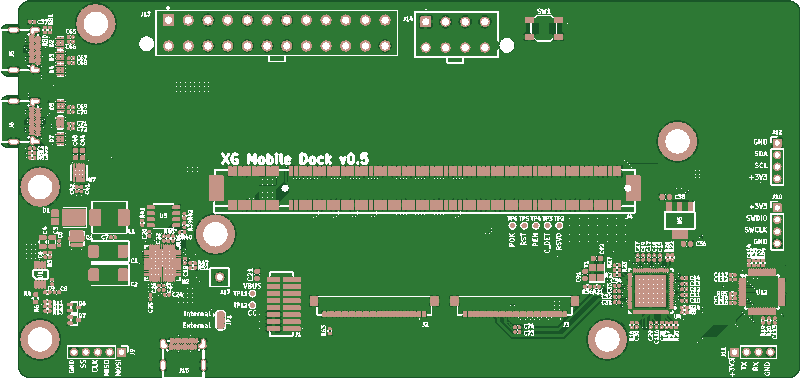
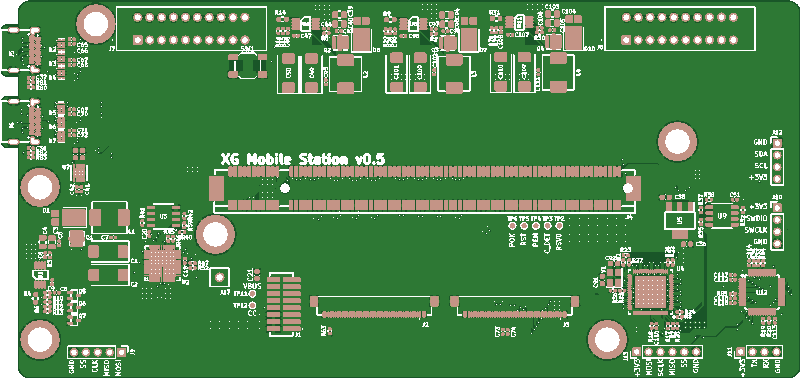
docs: updated diary and build guide for v5

diff --git a/Docs/Build_Guide.md b/Docs/Build_Guide.md
@@ -1,48 +1,48 @@
 The dock was designed from the beginning to be assembled at JLCPCB because of their low cost PCB assembly option. If you have not ordered from JLCPCB before, this guide will help you get started. There are two configurations you can build and some minor differences between them. The regular configuration is designed to be a complete replacement for the XG Station Pro main board and requires its proprietary power connector. It also supports USB charging and a 2-port USB hub. The lite version requires a standard ATX power supply and passes through the USB port to an external connection.
 
-Some options differ for low volume (<= 10) and high volume (>= 100) orders. This is because for low volume, we will optimize for cost and for high volume, we care about reliability (the per-unit cost of some options are reduced at high quantity). If you are ordering some number of units in between, use your best judgment. Note that Economic PCBA is cost effective for low volume because the per-component feeder loading fee is waived for basic components while at high volumes, the per-unit cost of this fee is negligible.
+## Board Guide
 
 1. Download `GERBER-XG_Mobile_Dock[_Lite].zip`, `CPL-XG_Mobile_Dock[_Lite].csv`, and `BOM-XG_Mobile_Dock[_Lite].csv` from the [latest release on GitHub](https://github.com/osy/XG_Mobile_Station/releases). Choose the regular or lite variant depending on the build you want. Do not mix and match files.
 2. Visit https://cart.jlcpcb.com/quote and upload `GERBER-XG_Mobile_Dock[_Lite].zip`
 3. Fill the PCB options as follows
 
-    | Option                     | Low Volume              | High Volume             | Notes                                                        |
-    |----------------------------|-------------------------|-------------------------|--------------------------------------------------------------|
-    | Base Material              | FR-4                    | FR-4                    |                                                              |
-    | Layers                     | 4                       | 4                       |                                                              |
-    | Dimensions                 |                         |                         | Should be auto filled                                        |
-    | PCB Qty                    | <= 10                   | >= 100                  |                                                              |
-    | Product Type               | Industrial/Consumer     | Industrial/Consumer     |                                                              |
-    | Different Design           | 1                       | 1                       |                                                              |
-    | Delivery Format            | Single PCB              | Single PCB              |                                                              |
-    | PCB Thickness              | 1.6                     | 1.6                     |                                                              |
-    | PCB Color                  | Any                     | Any                     | Green is cheapest                                            |
-    | Silkscreen                 | White                   | White                   |                                                              |
-    | Material Type              | **FR-4 TG155**          | **FR-4 TG155**          |                                                              |
-    | Surface Finish             | HASL (with lead)        | **ENIG**                | Any would work, lead HASL is cheapest, ENIG is most reliable |
-    | Outer Copper Weight        | 1 oz                    | 1 oz                    |                                                              |
-    | Inner Copper Weight        | 0.5 oz                  | 0.5 oz                  |                                                              |
-    | Specify Layer Sequence     | No                      | No                      |                                                              |
-    | Impedance Control          | **Yes**                 | **Yes**                 |                                                              |
-    | Layer Stackup              | **JLC04161H-7628**      | **JLC04161H-7628**      |                                                              |
-    | Via Covering               | Plugged                 | Plugged                 |                                                              |
-    | Min via hole size/diameter | 0.3mm/(0.4/0.45mm)      | 0.3mm/(0.4/0.45mm)      |                                                              |
-    | Board Outline Tolerance    | ±0.2mm(Regular)         | ±0.2mm(Regular)         |                                                              |
-    | Confirm Production file    | No                      | No                      |                                                              |
-    | Remove Order Number        | No                      | No                      |                                                              |
-    | Flying Probe Test          | Fully Test              | Fully Test              |                                                              |
-    | Gold Fingers               | No                      | No                      |                                                              |
-    | 30° finger chamfered       | No                      | No                      |                                                              |
-    | Castellated Holes          | No                      | No                      |                                                              |
-    | Press-Fit Hole             | No                      | No                      |                                                              |
-    | Edge Plating               | No                      | No                      |                                                              |
+    | Option                     | Value                   | Notes                                                           |
+    |----------------------------|-------------------------|-----------------------------------------------------------------|
+    | Base Material              | FR-4                    |                                                                 |
+    | Layers                     | 4                       |                                                                 |
+    | Dimensions                 |                         | Should be auto filled                                           |
+    | PCB Qty                    | Any                     |                                                                 |
+    | Product Type               | Industrial/Consumer     |                                                                 |
+    | Different Design           | 1                       |                                                                 |
+    | Delivery Format            | Single PCB              |                                                                 |
+    | PCB Thickness              | 1.6                     |                                                                 |
+    | PCB Color                  | Any                     | Green is cheapest                                               |
+    | Silkscreen                 | White                   |                                                                 |
+    | Material Type              | **FR-4 TG155**          |                                                                 |
+    | Surface Finish             | **ENIG**                | HASL (with lead) can be used in low volume runs for cost saving |
+    | Outer Copper Weight        | 1 oz                    |                                                                 |
+    | Inner Copper Weight        | 0.5 oz                  |                                                                 |
+    | Specify Layer Sequence     | No                      |                                                                 |
+    | Impedance Control          | **Yes**                 |                                                                 |
+    | Layer Stackup              | **JLC04161H-7628**      |                                                                 |
+    | Via Covering               | Plugged                 |                                                                 |
+    | Min via hole size/diameter | 0.3mm/(0.4/0.45mm)      |                                                                 |
+    | Board Outline Tolerance    | ±0.2mm(Regular)         |                                                                 |
+    | Confirm Production file    | No                      |                                                                 |
+    | Remove Order Number        | No                      |                                                                 |
+    | Flying Probe Test          | Fully Test              |                                                                 |
+    | Gold Fingers               | No                      |                                                                 |
+    | 30° finger chamfered       | No                      |                                                                 |
+    | Castellated Holes          | No                      |                                                                 |
+    | Press-Fit Hole             | No                      |                                                                 |
+    | Edge Plating               | No                      |                                                                 |
 
 4. Check PCB Assembly and fill the following options
 
     | Option                  | Low Volume      | High Volume     | Notes                                  |
     |-------------------------|-----------------|-----------------|----------------------------------------|
     | PCBA Type               | Economic        | **Standard**    | Economic saves on per-component cost   |
-    | Assembly Side           | Top Side        | Both Sides      | Lite only needs top side               |
+    | Assembly Side           | Both Sides      | Both Sides      | Lite only needs top side               |
     | PCBA Qty                | >= 2            | >= 100          |                                        |
     | Edge Rails/Fiducials    | Added by JLCPCB | Added by JLCPCB |                                        |
     | Confirm Parts Placement | No              | No              |                                        |
@@ -51,12 +51,20 @@ Some options differ for low volume (<= 10) and high volume (>= 100) orders. This
 6. Accept the board preview and press Next
 7. Click "Add BOM File" and select your `BOM-XG_Mobile_Dock[_Lite].csv`
 8. Click "Add CPL File" and select your `CPL-XG_Mobile_Dock[_Lite].csv`
-9. Press "Process BOM & CPL" to continue
+9. Press "Process BOM & CPL" to continue (ignore any error about missing data)
 10. Select the parts to pick by following the [Parts Guide](#parts-guide) section below.
 11. Press Next. If you chose to skip some parts you will get a confirmation pop-up where you can press "Do Not Place".
 12. In the Component Placements screen, you can confirm the parts orientation. If there are any mis-rotated parts, click them and rotate it to the correct orientation. (e.g. the pin headers.) Press Next to continue.
 13. Confirm the order details and for "Product Description" select "Reserch\Education\DIY\Entertainment -> DIY - HS Code 902300"
-14. Press "Save to Cart" and proceed to checkout.
+14. Press "Save to Cart".
+
+### Power Cable
+If you are building the standard variant, you also need to build a custom power cable. This will be a second board in your cart. You do not need this if you are building the lite variant and can proceed to checkout.
+
+1. If you are in the Cart page, press "+ Add new item", otherwise visit https://cart.jlcpcb.com/quote again
+2. Upload `GERBER-Riser_M.zip`
+3. Optionally change the quantity (you need two for each board) and keep all other options default
+4. Press "Save to Cart" and proceed to checkout.
 
 ## Parts Guide
 
@@ -83,9 +91,11 @@ If you are ordering a low quantity (2-5 units) of PCBA boards and don't mind doi
 
 ## Additional Parts
 * [XG Mobile connector cable](https://www.a-accessories.com/asus-connection-cable-62505-79153.htm)
-* (Standard build only) A DC7450 connector power supply if you do not have an XG Station Pro PSU and built the board with the barrel jack connector ([e.g. Dell 330W](https://www.dell.com/en-us/shop/dell-330w-74mm-ac-adapter/apd/450-bbqg/pc-accessories))
 * (Standard build only) SPI flasher is needed to program the firmware for the TI PD charger. You can also use a RaspberryPi with [Flashrom](https://wiki.flashrom.org/RaspberryPi) for this purpose.
 * ST-LINK v2 is needed to program the STM32 MCU. You can buy a cheap clone from AliExpress for under $10 but note that the pinout listing printed on the dongle may be incorrect.
+* (Standard build only) 22AWG stranded PVC insulated wire
+* (Standard build only) [10mm diameter cable sleeve](https://www.amazon.com/dp/B0CPJ7PMFZ)
+* (Standard build only) Electrical tape (100°C rating)
 
 ## Building Firmware
 Check the [readme](../README.md) for directions on flashing.
@@ -102,3 +112,53 @@ Alternatively, if you want to build and develop the firmware, the easiest way is
 4. Click "Change File" and save it as "XG_Mobile_Dock_Charger.bin".
 5. Press Ok and Ok to save the firmware image.
 6. Some flashers like Flashrom requires the image to be the same size as the flash device. You can run `dd if=/dev/zero of=XG_Mobile_Dock_Charger.bin bs=1 seek=1048575 count=1 conv=notrunc` to ensure this.
+
+## Building Power Cable
+For the standard build, we need to build a custom cable assembly to pass power from the replacement board to the original board which we need to use to power the GPU.
+
+Warning: this cable will be handling 16.9A at 19.5V so please follow these instructions carefully and make sure to test your cable for short circuits and bad solder joints before plugging it in.
+
+1. Cut out 20 pieces wire, each one 25cm long. We chose 22AWG stranded wire because of the flexibility and their ability to handle 2.1A of load.
+2. For each wire, using a wire stripper on only one end, remove no more than 3mm of insulation
+3. Cut the cable sleeve into a 22cm long piece
+4. Bundle up all 20 wires and feed it through the cable sleeve. Feed the unstripped end to avoid tangling the conductor with the sleeve. If you are using different coloured wires, make sure to group the same colours together before feeding it to make organizing it easier later.
+5. After feeding all the wires through, strip the other end of each wire (no more than 3mm)
+
+Now you need to solder both ends of the connector using the custom PCB we ordered. Notice that one side is labeled "Front". We need to connect the same pin to each side of the wire. It may be difficult to determine both ends of a single wire, so we recommend using a multimeter's connectivity test to find the opposite end. We recommend starting on one side and alternating between the first pin and last pin, then second pin and second-to-last pin, and so on working towards the middle. This way, the tension of the cable is more evenly distributed.
+
+Finally, secure one end with electrical tape to prevent the sleeve from fraying. Then, on the other end, twist the connector 180° such that one end faces the front and the other end faces the back. Secure that end with electrical tape as well.
+
+[![Completed cable](images/power_riser_cable_v2.jpg)](images/power_riser_cable_v2.jpg)
+
+## Building XG Mobile Station
+The standard build is designed to fit inside the XG Station Pro enclosure. We will be replacing the logic board with our custom board, mounting the original logic board to the top of the case with electrical tape, and finally connecting the two boards with our custom power cable. This will allow us to use the original board to provide 12V power to the GPU. Note that we will be removing the fans to create more space as well as leave a larger power budget for the GPU.
+
+To start, completely disassemble the XG Station Pro until you have just the metal frame.
+
+[![Step 1](images/xg_mobile_station_build_1.jpg)](images/xg_mobile_station_build_1.jpg)
+
+Take the original logic board and insulate the edge with electrical tape. Because we will be mounting this board onto the top of the frame, we need to protect against short circuits. Note two areas highlighted in red which has high current. We recommend using two layers of electrical tape here just for extra protection.
+
+[![Step 2](images/xg_mobile_station_build_2.jpg)](images/xg_mobile_station_build_2.jpg)
+
+Secure the custom PCB and screw it in. You may want to also put the extra screws into the empty holes to not lose them. Plug in the power connector board and screw that in as well. Remove the EMI shielding from the top of the USB-C connectors of the original board and place it on the USB-C connectors of the custom board.
+
+[![Step 3](images/xg_mobile_station_build_3.jpg)](images/xg_mobile_station_build_3.jpg)
+
+Connect the PCIe power cable back on the original board and connect the 2-pin power LED to the end of the board. Flip the board upside down and use electrical tape to secure it to the top of the chassis. Make sure that the holes for the top panel is not blocked by the board or any tape.
+
+[![Step 4](images/xg_mobile_station_build_4.jpg)](images/xg_mobile_station_build_4.jpg)
+
+Connect the XGM cable to the board (all three connectors). You will need to fold the cable in order to feed the XGM end through the PCIe slot. Secure the cable in place with the screw terminal on the board.
+
+[![Step 5](images/xg_mobile_station_build_5.jpg)](images/xg_mobile_station_build_5.jpg)
+
+Connect the custom power cable to both boards. Make sure that the front of the connector is **facing towards the PCIe connector on both boards**.
+
+[![Step 6](images/xg_mobile_station_build_6.jpg)](images/xg_mobile_station_build_6.jpg)
+
+Connect the PCIe 12V power to the GPU and seat the GPU. Note that you may need to modify the back I/O shield of the GPU in order to create space for the XGM cable to extend outside the case. Alternatively, you can try to pass the XGM cable above the GPU I/O or you can drill a hole next to the power connector.
+
+[![Step 7](images/xg_mobile_station_build_7.jpg)](images/xg_mobile_station_build_7.jpg)
+
+Now you can reassemble the rest of the case. If you have issues closing the front panel because of GPU clearance issues, do not screw in the PCIe slot until after you close the front panel.

diff --git a/README.md b/README.md
@@ -4,17 +4,17 @@ This open source hardware allows you to connect any PCIe card to an ASUS ROG dev
 
 [![Board 3D model](Docs/images/board-3d.png)](Docs/images/board-3d.png)
 
-The standard variant is a drop-in replacement PCB for the [XG Station Pro Thunderbolt 3 eGPU dock][1]. It contains a built in USB 3.1 Gen 2 hub and a 100W USB PD charger.
+The standard variant is a drop-in replacement PCB for the [XG Station Pro Thunderbolt 3 eGPU dock][1]. It contains a built in USB 3.1 Gen 2 hub and a USB PD charger.
 
 [![Board 3D model](Docs/images/board-lite-3d.png)](Docs/images/board-lite-3d.png)
 
 The lite variant is a drop-in replacement PCB for the [ADT-UT3G][6]. It requires a standard ATX power supply and passes through the USB to an external port.
 
 ## Features
-* PCIe 4.0 x8 support for 2022/2023 ROG Flow
+* PCIe 3.0 x8 support for 2021/2022/2023 ROG Flow (4.0 currently untested)
 * PCIe 4.0 x4 support for 2023 ROG Ally
 * MCU handling cable detection and LEDs
-* 100W USB PD charger (standard variant)
+* 65W USB PD charger (standard variant)
 * 2 USB-C ports connected to a USB 3.1 Gen 2 hub (standard variant)
 
 ## Getting Started
@@ -23,12 +23,13 @@ The lite variant is a drop-in replacement PCB for the [ADT-UT3G][6]. It requires
 3. [Install the software](#install-xgmactivator)
 
 ### Flashing Firmware
+Lite boards only need to flash STM32 while the standard board requires writing two SPI flash as well.
 
 #### STM32 MCU
 1. Download `XG_Mobile_Dock_MCU.bin` from the latest release or [build your own](Docs/Build_Guide.md#mcu).
 2. Download and install [ST32CubeProgrammer][2].
 3. Connect your ST-LINK v2 to your computer. Note if you are using a cheap clone from Amazon or Aliexpress, the pin numbers printed on the device may be incorrect.
-4. Connect the SWDIO, SWCLK, and GND pins to J10 on the board to the ST-LINK v2. Do not connect +3V3.
+4. Connect the SWDIO, SWCLK, and GND pins to J10 on the board to the ST-LINK v2. Do not connect +3V3. If you are using an official ST-LINK, you will need a jumper wire from VAPP (pin 1) to VDD (pin 19).
 5. Ensure the board is powered on so it can be programmed.
 6. Open ST32CubeProgrammer and go to the "Erasing & programming" page (second icon on the left sidebar).
 7. Browse and select the firmware file.
@@ -44,10 +45,19 @@ We will be using a Raspberry Pi, although most other SBC can also work as well a
 4. Download `XG_Mobile_Dock_Charger.bin` from the latest release or [build your own](Docs/Build_Guide.md#ti-pd-controller).
 5. Flash the firmware: `sudo flashrom -p linux_spi:dev=/dev/spidev0.0,spispeed=1000 -w XG_Mobile_Dock_Charger.bin`
 
-### Install XGMActivator
-XGMActivator is a simple Windows service that tricks ARMORY CRATE software into identifying the custom dock as an official XG Mobile device. Once installed, it should work even if ARMORY CRATE software is updated. You can check out the [source code here](XGMActivator/XGMActivator.c).
+#### SPI Flash for VIA USB Hub
+We will be using a Raspberry Pi, although most other SBC can also work as well as dedicated SPI flashers.
 
-1. Download `XGMActivator_Setup.msi` from the latest release.
+1. [Enable the SPI interface on the Raspberry Pi.][3]
+2. Connect GND (Ground), SS (SPI0 CE0), CLK (SPI0 SCLK), MISO (SPI0 MISO), and MOSI (SPI0 MOSI) on J13 [to the Raspberry Pi][4]. Note the order of the pins is different from J9.
+3. Open a shell to the Raspberry Pi and install Flashrom if it is not already installed: `sudo apt-get install flashrom`
+4. Download `VL822_Q7_9043_Phantom_20220616.bin` from the latest release.
+5. Flash the firmware: `sudo flashrom -p linux_spi:dev=/dev/spidev0.0,spispeed=1000 -w VL822_Q7_9043_Phantom_20220616.bin`
+
+### Install XGMDriver
+XGMDriver tricks ARMORY CRATE software into identifying the custom dock as an official XG Mobile device. Once installed, it should work even if ARMORY CRATE software is updated. You can check out the [source code here](XGMDriver).
+
+1. Download `XGMDriverSetup.exe` from the latest release.
 2. Run the installer making sure to correctly select AMD or NVIDIA depending on the vendor of the GPU you are installing.
 3. If you need to swap between AMD and NVIDIA, uninstall from Control Panel or by running the installer again. Then you can re-install and select the right option.
 
@@ -58,6 +68,18 @@ This is a well known issue with NVIDIA eGPUs. Once the eGPU is installed along w
 
 ### PCIe is only getting 3.0 speeds
 You need to restart your device. For some reason, hot plugging sometimes results in 3.0 speeds.
+
+### No popup when XGM is connected
+Sometimes, the device will not be detected and you can flip the lock switch off and on again to force the software to re-detect the device.
+
+### "It appears that your XG Mobile is not properly connected..."
+If you get a pop-up saying XG Mobile is not properly connected, make sure [XGMDriver](#install-xgmdriver) is installed. If this is still an issue with XGMDriver installed, there is likely a connection issue with the cable.
+
+### ASUS Driver install popup on reboot
+Re-install XGMDriver to inhibit the ASUS driver popup.
+
+### Lite: USB is not detected
+The lite board does not have USB orientation detection. Try flipping the USB-C cable upside down and try again.
 
 ## References
 Knowledge base for all things XGM gathered from reverse engineering the hardware and software.

diff --git a/Docs/Diary.md b/Docs/Diary.md
@@ -85,7 +85,27 @@ Another issue discovered was that devices plugged into the USB hub would be disc
 
 [![Board current measurement](images/current_measure.jpg)](images/current_measure.jpg)
 
-## Final Build
+### Rev. 5
+In addition to using a beefier LDO, we also connected a SPI flash to the VIA USB hub. Although the SPI flash was listed as optional in the datasheet, we found that USB 3.0 often caused errors in Windows and we hypothesized that the issue was due to outdated microcode that could be updated by a firmware stored in the SPI flash. We tested this by building a separate board with just the USB hub and confirmed this was indeed the fix.
+
+[![Board rev 5](images/board_v5.png)](images/board_v5.png)
+
+We also took the opportunity to reorganize the board layout. First, we moved the decoupling capacitors for the two USB ICs to the bottom layer. Previously, we avoided any components on the bottom layer for cost reasons but after observing the current consumption of the USB hub, we decided it would be safer to properly follow design recommendations and place the caps directly underneath the IC for better handling of sudden current spikes. This also means we have more space on top to follow other best practice guidelines such as putting Rbias and the crystal closer to the pads. Ultimately, the number of components on the bottom is quite small and can be manually soldered in small runs.
+
+Since we no longer need to stuff all these components close to each other, we also were able to increase the minimum drill size from 0.15mm to 0.3mm. This introduces significant cost savings in manufacturing.
+
+Finally, we moved the power passthrough from the bottom edge to a second connector on the top. Originally, we wanted to plug the original board directly into our board in a 90 degree orientation. This was awkward to manage and did not work with larger GPUs. Instead, a better way is to introduce a second 20-pin connector along with a custom passthrough cable.
+
+[![Power connector](images/power_connector.png)](images/power_connector.png)
+
+### Lite
+By popular demand, we also introduced a "lite" variant of the board which is cost-optimized to work with the minimal number of components. We removed the USB ICs and associated power controllers and added an ATX-24 connector.
+
+[![Board lite rev 5](images/board_lite_v5.png)](images/board_lite_v5.png)
+
+We chose to match the form factor to the ADT-UT3G in order to be compatible with third party case designs.
+
+## Final Build (rev. 4)
 Originally, we wanted to fit a 2 slot GPU into the case, which meant we could have daisy chained the PCIe power PCB on the side. However, after getting a NVIDIA RTX 4070 Ti SUPER (a 2.7 slot card), we had to adapt the power connector. The solution was to make a [riser cable](../Power_Riser) for the power connector which allowed us to mount (tape) the power PCB to the top of the enclosure.
 
 [![Power riser cable](images/power_riser_cable.jpg)](images/power_riser_cable.jpg)
@@ -137,6 +157,3 @@ The XG Station Pro's power supply is rated for 330W and the Ally charging maxes 
 The XG Station Pro has two case fans but we removed one of them for space issues and we kept the other one disconnected in order to reduce power consumption (and because the fan sit behind the GPU's backplate). As a result, the case fans were not used.
 
 At 265W, we ran FurMark for 45 minutes and there was no thermal throttling. The GPU temperatures stabilized at 70C while the outside of the case got to 47C. The power supply was around 38C. Ambient temperature was 25C.
-
-## Remaining Issue
-Although this project is considered "finished", there is still an unresolved issue with the USB hub. It seems that only USB 2.0 works and that many USB 3.0 devices error out. Additionally, we were made aware of the fact that the VL822-Q7 has been discontinued and will not be available for new purchase at JLCPCB. This means that one of the first things to do in a follow up project would be to replace the VL822-Q7 with either a newer (and properly documented) chip or to just pass through the USB signals directly to a port where an external charging hub can be used.
